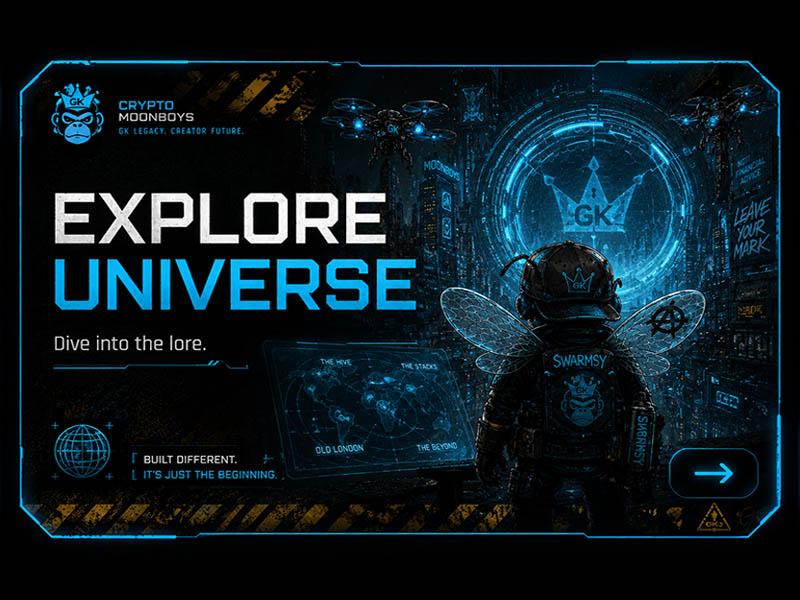
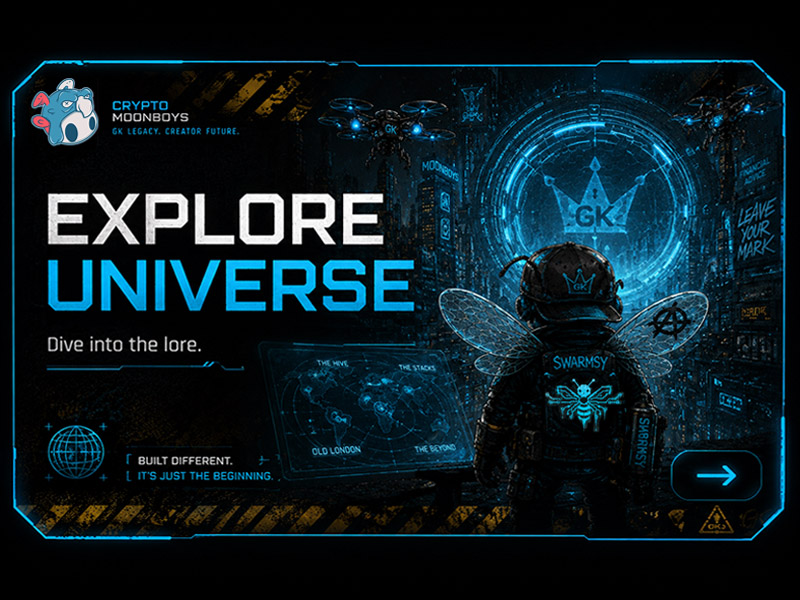
Swap card three art and remove card glow

Changed region(s): [[0.0, 0.09, 1.0, 0.9], [0.625, 0.75, 0.6562, 0.81], [0.6875, 0.81, 0.7188, 0.84]]

diff --git a/css/wiki.css b/css/wiki.css
@@ -3523,10 +3523,10 @@ body.page-home .launch-cta-secondary {
   gap: 0;
   padding: 0;
   color: var(--color-text);
-  background: rgba(4, 6, 7, 0.94);
-  border: 1px solid rgba(0, 255, 204, 0.18);
+  background: #000;
+  border: 1px solid rgba(255, 255, 255, 0.10);
   border-radius: 16px;
-  box-shadow: 0 0 28px rgba(0, 255, 204, 0.055);
+  box-shadow: none;
   font-family: var(--font-sans);
   font-weight: 700;
   line-height: 1.35;
@@ -3552,8 +3552,8 @@ body.page-home .launch-ip-card::before {
   content: "";
   pointer-events: none;
   background:
-    linear-gradient(180deg, rgba(5, 6, 7, 0.06) 0%, rgba(5, 6, 7, 0.02) 38%, rgba(5, 6, 7, 0.36) 100%);
-  opacity: 0.9;
+    linear-gradient(180deg, rgba(0, 0, 0, 0.06) 0%, rgba(0, 0, 0, 0.02) 38%, rgba(0, 0, 0, 0.36) 100%);
+  opacity: 1;
   transition: opacity 180ms ease;
 }
 
@@ -3593,36 +3593,36 @@ body.page-home .launch-ip-card:focus-visible img {
 }
 
 body.page-home .launch-cta-primary {
-  border-color: rgba(247, 201, 72, 0.32);
-  box-shadow: 0 0 32px rgba(247, 201, 72, 0.10), 0 0 28px rgba(0, 255, 204, 0.055);
+  border-color: rgba(255, 255, 255, 0.10);
+  box-shadow: none;
 }
 
 body.page-home .launch-ip-card--identity:hover,
 body.page-home .launch-ip-card--identity:focus-visible {
-  border-color: rgba(247, 201, 72, 0.72);
-  box-shadow: 0 0 34px rgba(247, 201, 72, 0.16), 0 0 28px rgba(0, 255, 204, 0.07);
+  border-color: rgba(247, 201, 72, 0.42);
+  box-shadow: none;
 }
 
 body.page-home .launch-ip-card--community {
-  border-color: rgba(159, 255, 74, 0.30);
-  box-shadow: 0 0 32px rgba(159, 255, 74, 0.10), 0 0 28px rgba(0, 255, 204, 0.055);
+  border-color: rgba(255, 255, 255, 0.10);
+  box-shadow: none;
 }
 
 body.page-home .launch-ip-card--community:hover,
 body.page-home .launch-ip-card--community:focus-visible {
-  border-color: rgba(159, 255, 74, 0.64);
-  box-shadow: 0 0 34px rgba(159, 255, 74, 0.16), 0 0 28px rgba(0, 255, 204, 0.07);
+  border-color: rgba(255, 255, 255, 0.26);
+  box-shadow: none;
 }
 
 body.page-home .launch-ip-card--universe {
-  border-color: rgba(86, 220, 255, 0.30);
-  box-shadow: 0 0 32px rgba(86, 220, 255, 0.10), 0 0 28px rgba(0, 255, 204, 0.055);
+  border-color: rgba(255, 255, 255, 0.10);
+  box-shadow: none;
 }
 
 body.page-home .launch-ip-card--universe:hover,
 body.page-home .launch-ip-card--universe:focus-visible {
-  border-color: rgba(86, 220, 255, 0.68);
-  box-shadow: 0 0 34px rgba(86, 220, 255, 0.16), 0 0 28px rgba(0, 255, 204, 0.07);
+  border-color: rgba(255, 255, 255, 0.26);
+  box-shadow: none;
 }
 
 body.page-home .launch-route,
